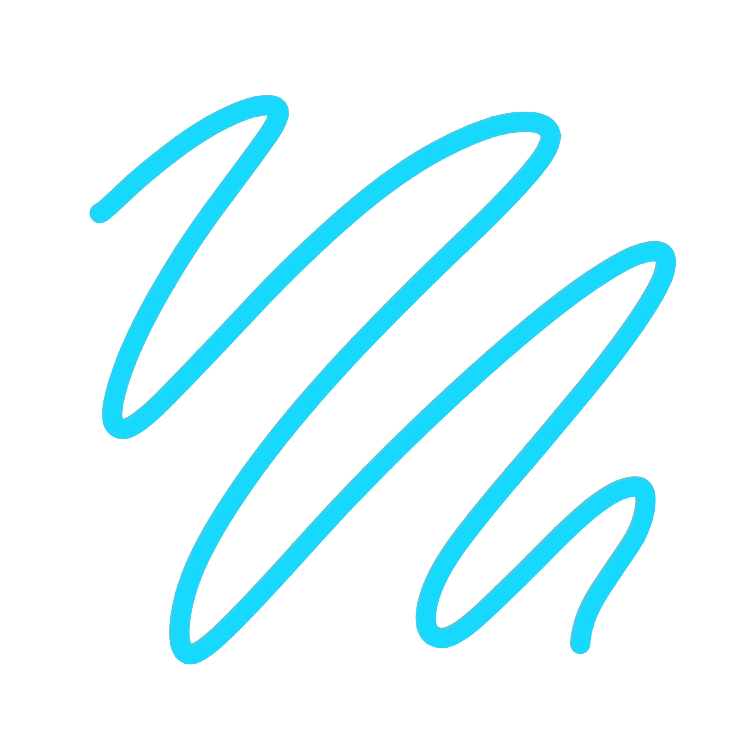
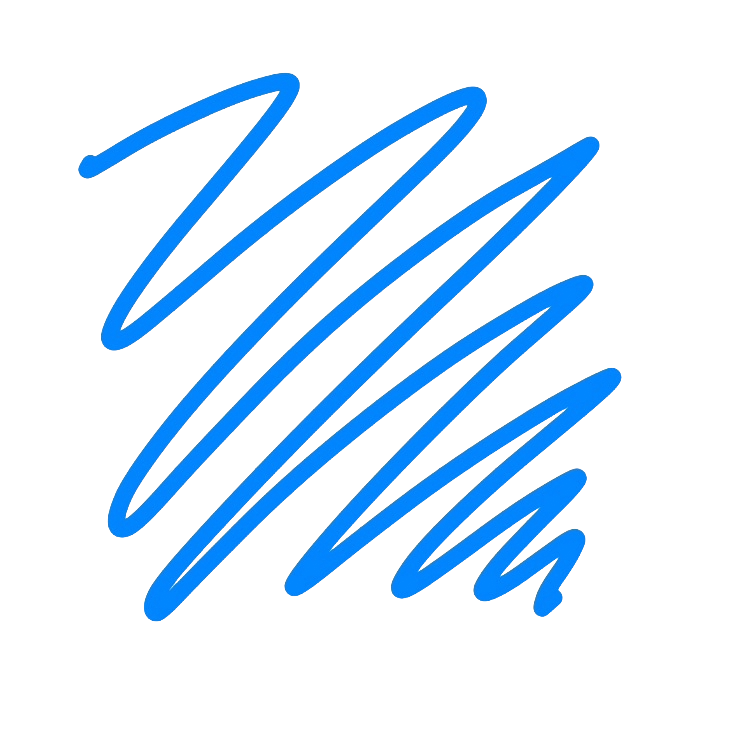
actualizacion y arreglo paneles

Changed region(s): [[0.09, 0.09, 0.9304, 0.9304]]

diff --git a/src/Tablero.cpp b/src/Tablero.cpp
@@ -115,14 +115,14 @@ void Tablero::inicializa()
 
     panelStatsLuz = new PanelStats{
         {Config::sizeMundo.x * 0.12, Config::sizeMundo.y * 0.42},
-        { posicion.x + longitud / 1.975, posicion.y - longitud/2.2},
-        colorFondoPanel, colorTextoPanel, colorTituloPanelLuz, colorBordePanel, "Luz", static_cast<int>(Config::sizeMundo.x * 0.02), static_cast<int>(Config::sizeMundo.x * 0.02)
+        { posicion.x + longitud / 1.7, posicion.y - longitud/1.7},
+        colorFondoPanel, colorTextoPanel, colorTituloPanelLuz, colorBordePanel, "LUZ", static_cast<int>(Config::sizeMundo.x * 0.02), static_cast<int>(Config::sizeMundo.x * 0.02)
     };
 
     panelStatsOscuridad = new PanelStats{
         {Config::sizeMundo.x * 0.12, Config::sizeMundo.y * 0.42},
-        { posicion.x + longitud / 1.975, posicion.y - longitud / 2.5 + Config::sizeMundo.y * 0.42},
-        colorFondoPanel, colorTextoPanel, colorTituloPanelOscuridad, colorBordePanel, "Oscuridad", static_cast<int>(Config::sizeMundo.x * 0.02), static_cast<int>(Config::sizeMundo.x * 0.02)
+        { posicion.x + longitud / 1.7, posicion.y - longitud / 1.9 + Config::sizeMundo.y * 0.42},
+        colorFondoPanel, colorTextoPanel, colorTituloPanelOscuridad, colorBordePanel, "OSCURIDAD", static_cast<int>(Config::sizeMundo.x * 0.02), static_cast<int>(Config::sizeMundo.x * 0.02)
     };
 
 	//inicializo panel de stats con la pieza que está debajo del cursor al inicio

diff --git a/src/Arena.cpp b/src/Arena.cpp
@@ -18,7 +18,7 @@ void Arena::generaObstaculos(int cantidad, unsigned int semilla)
     obstaculos.clear();
     std::srand(semilla == 0 ? static_cast<unsigned>(std::time(nullptr)) : semilla);
 
-    const float margenBorde = size.x * 0.08f;
+    const float margenBorde = size.x * 0.13f;
     const float xMin = margenBorde;
     const float xMax = size.x - margenBorde;
     const float yMin = margenBorde;
@@ -26,7 +26,7 @@ void Arena::generaObstaculos(int cantidad, unsigned int semilla)
     const Vector2D obsSize{ size.x * 0.04f, size.y * 0.04f };
     const float margenReservado = size.x * 0.15f;
 
-    const int maxIntentos = 20;
+    const int maxIntentos = 500;
     int colocados = 0;
     int intentos = 0;
 
@@ -175,15 +175,15 @@ void Arena::mueve(float dt)
 
 void Arena::dibuja(const Renderer& renderer) const
 {
-   
+	renderer.dibujaSprite(pizarra.sprite, centro, size.x, size.y);
     bordes.dibuja(renderer);
-    renderer.dibujaSprite(fondoarena.sprite, centro, size.x, size.y);
+    
 
 
     for (const auto& obs : obstaculos)
         renderer.dibujaSprite(arbolverde.sprite, obs.posicion, obs.size.x, obs.size.y);
     listaDisparos.dibuja(renderer);
-	if (jugador1) jugador1->dibuja(renderer, jugador1->posicion(), size.x, size.y);
+	if (jugador1) jugador1->dibuja(renderer, jugador1->posicion(), size.x * 0.1, size.y * 0.1);
 	if (jugador2) jugador2->dibuja(renderer, jugador2->posicion(), size.x, size.y);
 }
 

diff --git a/src/PanelStats.cpp b/src/PanelStats.cpp
@@ -1,20 +1,23 @@
 #pragma once
 #include "PanelStats.h"
+#include <string>
 
 void PanelStats::dibuja(const Renderer& renderer) const
 {
 	Vector2D centro = { posicion.x + size.x / 2.0, posicion.y + size.y / 2.0 };
 
-    double salto = 20;
+    double salto = 17;
 
-    double x_texto = posicion.x + 5;
-    double y_texto_inicio = posicion.y + 30;
+    double x_texto = posicion.x ;
+    double y_texto_inicio = posicion.y + 45;
 
-    renderer.dibujaCuadrado(centro, colorFondo, size); //Fondo
+	renderer.dibujaSprite(panel.sprite, centro, size.x * 2.2, size.y * 1.3); //Fondo con textura
+   // renderer.dibujaCuadrado(centro, colorFondo, size); //Fondo
     renderer.dibujaContornoCuadrado(centro, colorBorde, size); //Bordes
-    renderer.dibujaTexto(titulo,{x_texto, posicion.y*1.1 }, colorTitulo, tam_titulo_escalado, AlineacionTexto::IZQUIERDA); //Título
+    
+    renderer.dibujaTexto(titulo,{x_texto, posicion.y + 30 }, colorTitulo, tam_titulo_escalado, AlineacionTexto::IZQUIERDA); //Título
 
-    double y_stats = y_texto_inicio + 10;
+    double y_stats = y_texto_inicio + 2;
     
 	if (pieza != nullptr) {
         renderer.dibujaTexto(pieza->getNombre(), {x_texto, y_texto_inicio}, colorTexto, tam_texto_escalado, AlineacionTexto::IZQUIERDA);

diff --git a/includes/Arena.h b/includes/Arena.h
@@ -22,7 +22,7 @@ class Arena
 	const Vector2D posicionInicialJugador1{ {Config::sizeMundo.x * 0.2},{Config::sizeMundo.y * 0.5} };//centro izda
 	const Vector2D posicionInicialJugador2{ {Config::sizeMundo.x - posicionInicialJugador1.x},posicionInicialJugador1.y };//centro drcha
 	const Vector2D size{ Config::sizeMundo };
-	const Bordes bordes{ size * 0.9, centro };
+	const Bordes bordes{ size * 0.7, centro };
 	ListaDisparos listaDisparos;
 
 	bool combateTerminado; //si empate o uno muerto

diff --git a/includes/Graftablero.h b/includes/Graftablero.h
@@ -19,4 +19,4 @@ inline Graftablero cursor { "assets/Graficos/Cursor.png" };
 inline Graftablero cursor_luz { "assets/Graficos/cursor_luz.PNG" };
 inline Graftablero cursor_oscuro { "assets/Graficos/cursor_osc.PNG" };
 inline Graftablero casillaespecial { "assets/Graficos/casillas especial.PNG" };
-
+inline Graftablero panel{ "assets/Graficos/panel.PNG" };

diff --git a/includes/Grafarena.h b/includes/Grafarena.h
@@ -3,6 +3,6 @@ struct Grafarena {
     ETSIDI::Sprite sprite;
 };
 
-inline Grafarena fondoarena { "assets/Graficos/arena.png" };
+inline Grafarena pizarra { "assets/Graficos/pizarra.png" };
 inline Grafarena arbolmarron{ "assets/Graficos/arbolmarron.png" };
 inline Grafarena arbolverde{ "assets/Graficos/arbolverde.png" };

diff --git a/includes/Tablero.h b/includes/Tablero.h
@@ -58,7 +58,7 @@ private:
 
 	Color colorFondoPanel{ 0.3f, 0.3f, 0.3f };
 	Color colorBordePanel{ 0.9f, 0.9f, 0.9f };
-	Color colorTextoPanel{ 0.9f, 0.9f, 0.9f };
+	Color colorTextoPanel{ 0.4f, 0.4f, 0.4f };
 	Color colorTituloPanelLuz{ 0.0f, 0.0f, 1.0f };
 	Color colorTituloPanelOscuridad{ 1.0f, 0.0f, 0.0f };
    
